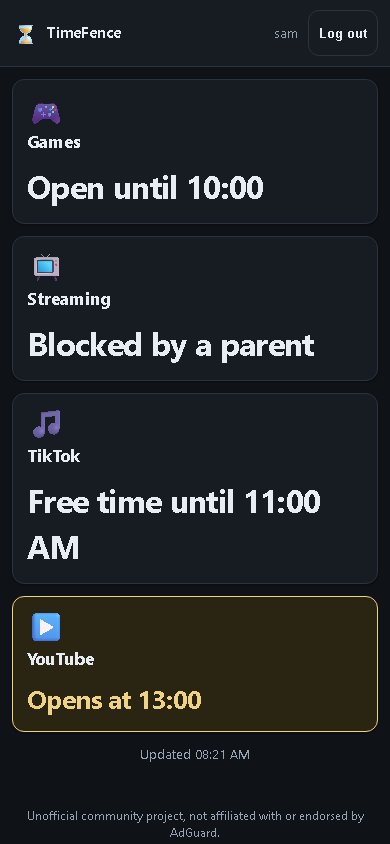
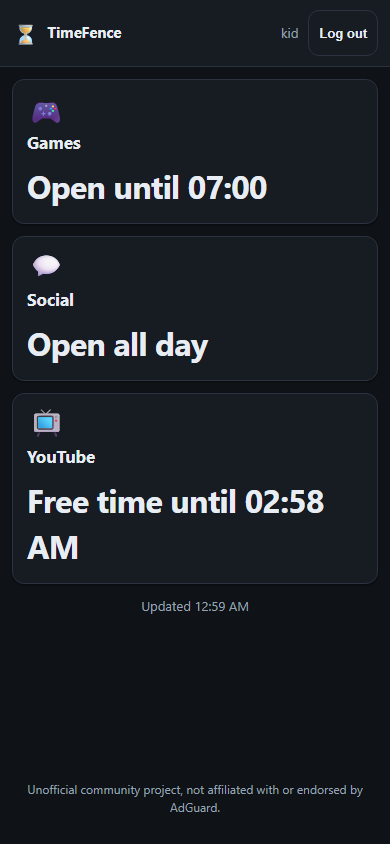
docs: retake the screenshots for the 1.1 lane
The Today card now carries the Block everything now / Release
everything actions, a free group's Extra time and Clear buttons, and the
allowed-times line's per-day qualifier. The new-group editor shows the
starter preset row and the day-of-week chips. The kid screen picks up
the free time until line. All captures come from the development
server against the fake AdGuard Home, so no real household, DNS logs or
credentials are in any frame.

diff --git a/README.md b/README.md
@@ -19,13 +19,13 @@ regenerate it are in [`docs/screenshots/`](docs/screenshots/).
 
 | Kid view (phone) | Kid view (phone, dark) |
 |---|---|
-| <img src="docs/screenshots/kid-390.png" width="260" alt="Kid view on a phone: one line per group saying open until or opens at, with the closed group set off in a warm highlight"> | <img src="docs/screenshots/kid-390-dark.png" width="260" alt="The kid view on a phone in dark mode"> |
+| <img src="docs/screenshots/kid-390.png" width="260" alt="Kid view on a phone: one line per group saying open until, opens at, or free time until, with a closed group set off in a warm highlight"> | <img src="docs/screenshots/kid-390-dark.png" width="260" alt="The kid view on a phone in dark mode"> |
 
-<img src="docs/screenshots/admin-today-1280.png" alt="Admin Today: the live schedule line, Block / Auto / Free and quick actions for each group">
+<img src="docs/screenshots/admin-today-1280.png" alt="Admin Today: each group's live state and allowed times by day, Block / Auto / Free, a free group's Extra time and Clear buttons, plus Block everything now and Release everything">
 
 <img src="docs/screenshots/groups-1280.png" alt="Groups tab: allowed times, targets and owners, with the AdGuard services picker">
 
-<img src="docs/screenshots/groups-editor-390.png" width="390" alt="Group editor on a phone, showing the allowed times">
+<img src="docs/screenshots/groups-editor-390.png" width="390" alt="New-group editor on a phone: the starter preset row, time windows with day-of-week chips, services and owner">
 
 <img src="docs/screenshots/alerts-1280.png" alt="Settings, Alerts card: one alert channel (Telegram, ntfy or webhook) and the event toggles">
 

diff --git a/docs/screenshots/README.md b/docs/screenshots/README.md
@@ -8,14 +8,14 @@ in any capture.
 
 | file | shows |
 |---|---|
-| `kid-390.png` | the read-only kid screen on a phone: one line per group saying open until / opens at, plus a closed group muted |
+| `kid-390.png` | the read-only kid screen on a phone: one line per group saying open until / opens at / free time until, plus a closed group muted |
 | `kid-390-dark.png` | the same kid screen in dark mode |
 | `kid-1280.png` | the kid screen at desktop width |
-| `admin-today-390.png` | the admin Today card on a phone: the live schedule line, Block / Auto / Free and quick actions |
+| `admin-today-390.png` | the admin Today card on a phone: the live schedule line with its per-day times, Block / Auto / Free, the free group's Extra time and Clear buttons, and the Block everything now / Release everything actions |
 | `admin-today-1280.png` | the admin Today view at desktop width |
 | `admin-today-1280-dark.png` | the same view in dark mode |
 | `groups-1280.png` | the Groups tab: allowed times, targets, owners and the AdGuard services picker |
-| `groups-editor-390.png` | the group editor on a phone, with the allowed times |
+| `groups-editor-390.png` | the new-group editor on a phone: the preset row, time windows with day-of-week chips, services and owner |
 | `alerts-1280.png` | Settings → Alerts: one Telegram, ntfy or webhook channel and the event toggles |
 
 ## Regenerating them
